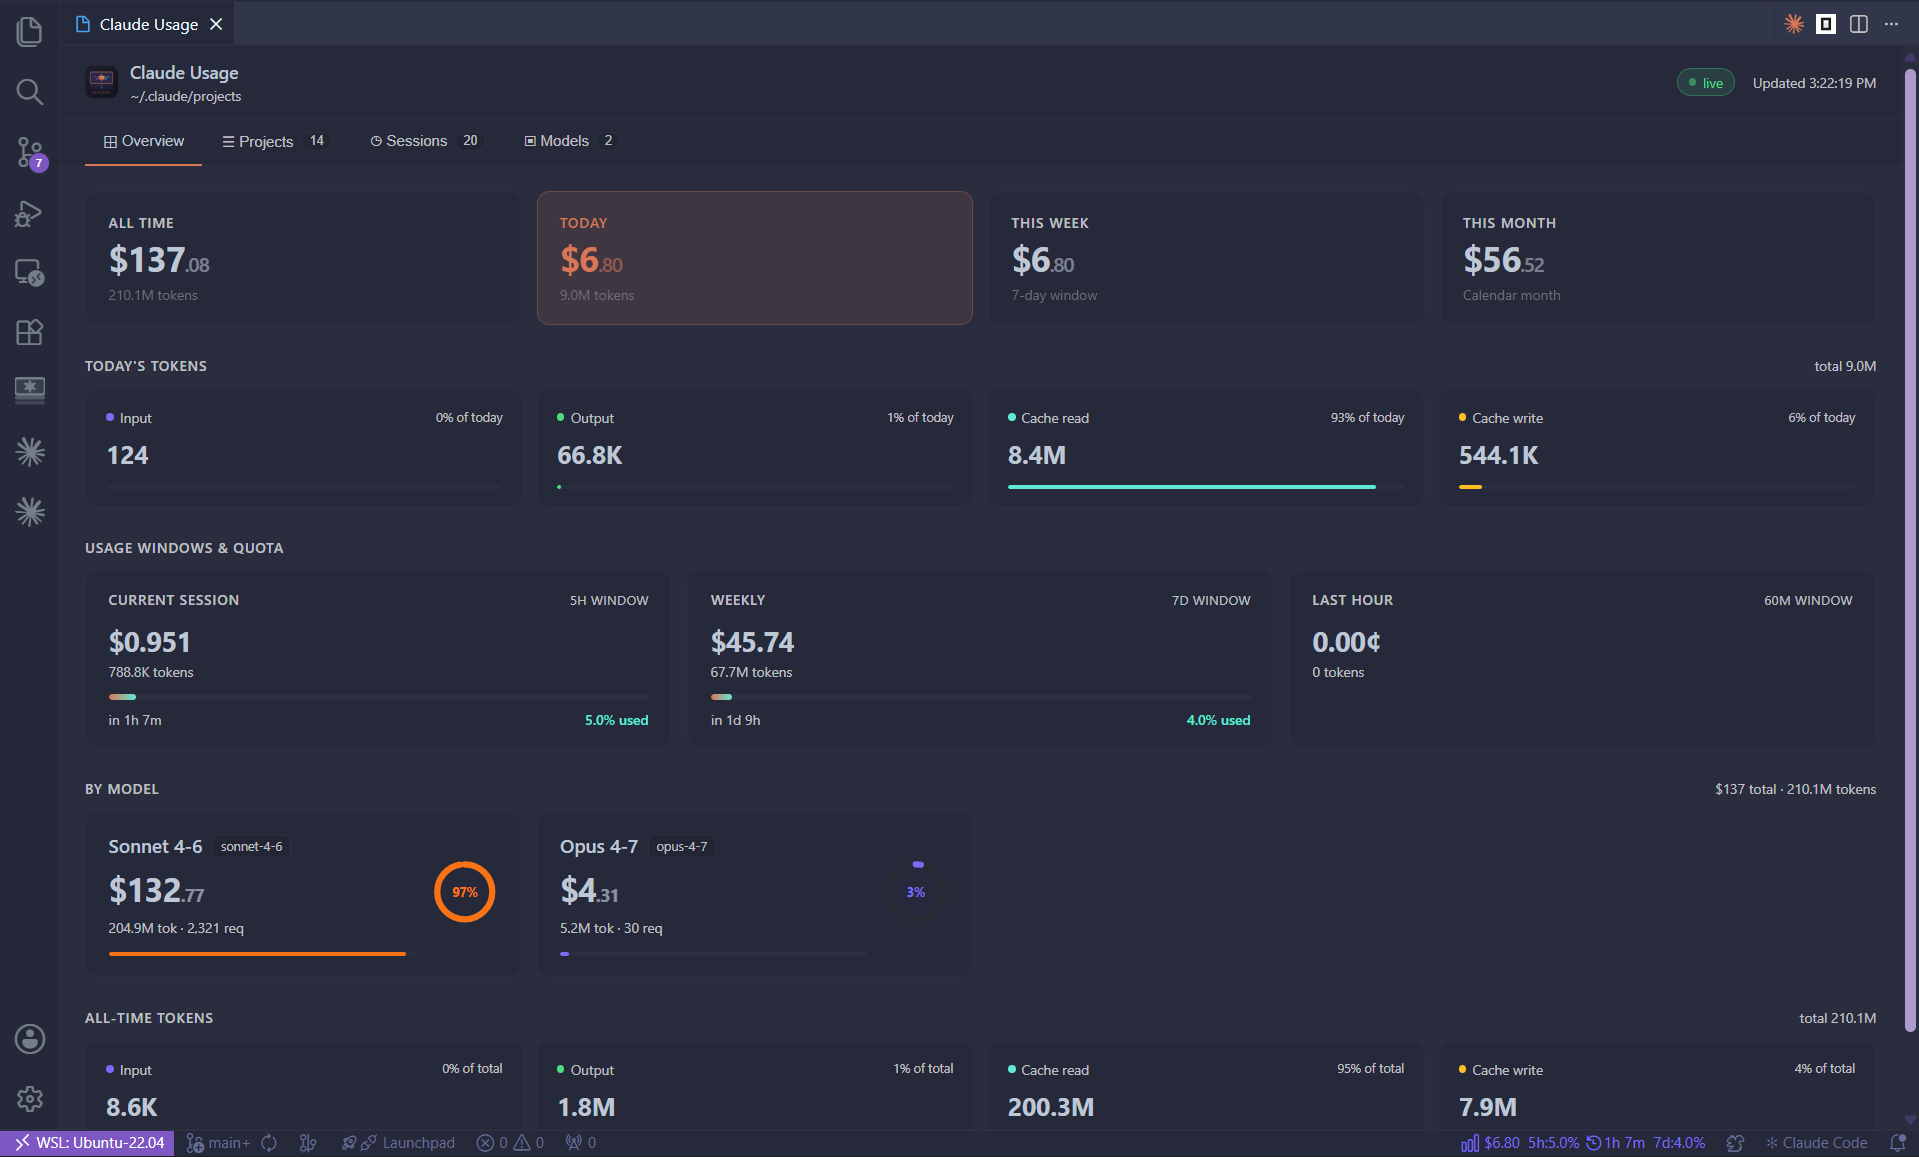
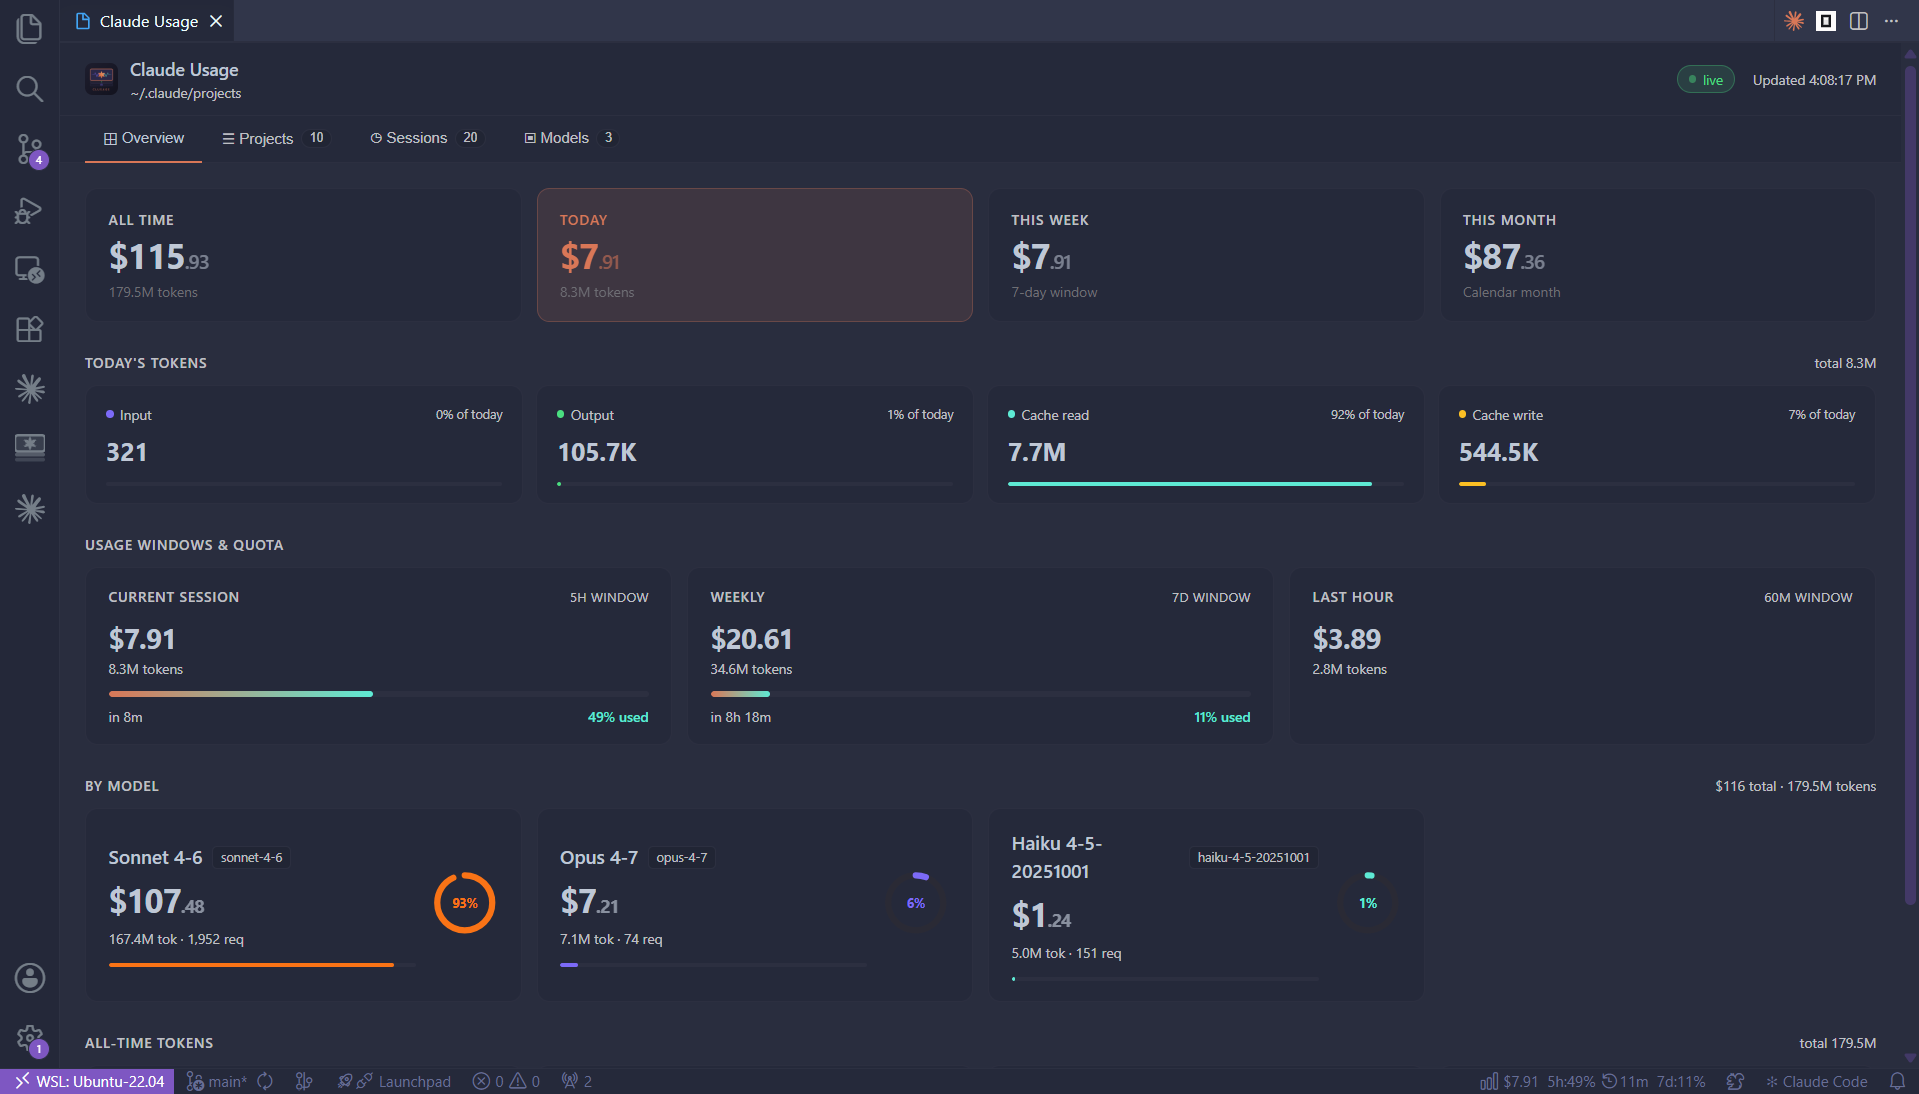
Major fix

diff --git a/src/quota.ts b/src/quota.ts
@@ -58,9 +58,13 @@ export async function fetchQuota(): Promise<QuotaData | null> {
         path: '/v1/messages',
         method: 'POST',
         headers: {
+          // OAuth tokens go through `authorization: Bearer`. Sending the same
+          // token in `x-api-key` causes the API to reject with 401
+          // "invalid x-api-key" — it validates that header as an API key, not
+          // an OAuth token, so the combo must not be sent together.
           'authorization': `Bearer ${token}`,
-          'x-api-key': token,
           'anthropic-version': '2023-06-01',
+          'anthropic-beta': 'oauth-2025-04-20',
           'anthropic-client-platform': 'claude_cli',
           'content-type': 'application/json',
           'content-length': Buffer.byteLength(body),
@@ -81,6 +85,16 @@ export async function fetchQuota(): Promise<QuotaData | null> {
         const sevenDayResetAt = parse7dReset
           ? new Date(parseInt(parse7dReset, 10) * 1000)
           : new Date(Date.now() + 7 * 86400_000);
+
+        // Any non-2xx without rate-limit headers is an auth / server failure,
+        // not a usable quota signal. Returning zeros here would mislead users
+        // into thinking they had full quota remaining. The single exception is
+        // 429-with-no-headers, which legitimately means "quota exhausted".
+        if (!headersPresent && res.statusCode !== 429 &&
+            (res.statusCode === undefined || res.statusCode < 200 || res.statusCode >= 300)) {
+          resolve(null);
+          return;
+        }
 
         // 429 with no headers = quota exhausted / hard rate-limited
         if (res.statusCode === 429 && !headersPresent) {

diff --git a/CHANGELOG.md b/CHANGELOG.md
@@ -6,6 +6,17 @@ The format follows [Keep a Changelog](https://keepachangelog.com/en/1.0.0/), and
 
 ---
 
+## [5.0.0] - 2026-05-25
+
+### Fixed
+- **Status bar showed `5h:0% 7d:0%` despite real quota usage** — recent Claude Code releases use OAuth tokens (`sk-ant-oat…`) that the Anthropic API now strictly validates per header. Sending the same token in both `authorization: Bearer …` and `x-api-key: …` causes the API to reject the request with `401 invalid x-api-key`. The rate-limit headers are absent on that response, so `fetchQuota` was falling through and returning `utilization=0` for both windows. The duplicate `x-api-key` header has been removed and the OAuth beta header (`anthropic-beta: oauth-2025-04-20`) is now sent, matching the current Claude Code request shape. Real `anthropic-ratelimit-unified-5h-utilization` / `7d-utilization` values are now read correctly.
+- **Silent fallback to 0% on auth/server failure** — any non-2xx response without rate-limit headers now returns `null` from `fetchQuota` instead of a fake `{ utilization: 0, … }` payload. The status bar now shows cost-only on quota failure (e.g. expired OAuth token, offline, API outage) rather than misleadingly reporting full quota remaining.
+
+### Changed
+- **Recursive JSONL scanning** — `parser.ts` now walks subdirectories under each project folder so subagent transcripts under `<sessionId>/subagents/` are included in usage totals.
+
+---
+
 ## [4.0.0] - 2026-05-17
 
 ### Changed

diff --git a/README.md b/README.md
@@ -8,7 +8,7 @@
 
 Track every dollar, token, and quota percentage across all your Claude Code sessions without leaving your editor.
 
-[![Version](https://img.shields.io/badge/version-4.0.0-7c6af7?style=flat-square)](https://marketplace.visualstudio.com/items?itemName=Ajax1029.clusage)
+[![Version](https://img.shields.io/badge/version-5.0.0-7c6af7?style=flat-square)](https://marketplace.visualstudio.com/items?itemName=Ajax1029.clusage)
 [![VS Code](https://img.shields.io/badge/VS%20Code-1.85+-5eead4?style=flat-square)](https://marketplace.visualstudio.com/items?itemName=Ajax1029.clusage)
 [![License](https://img.shields.io/badge/license-MIT-4ade80?style=flat-square)](LICENSE)
 
